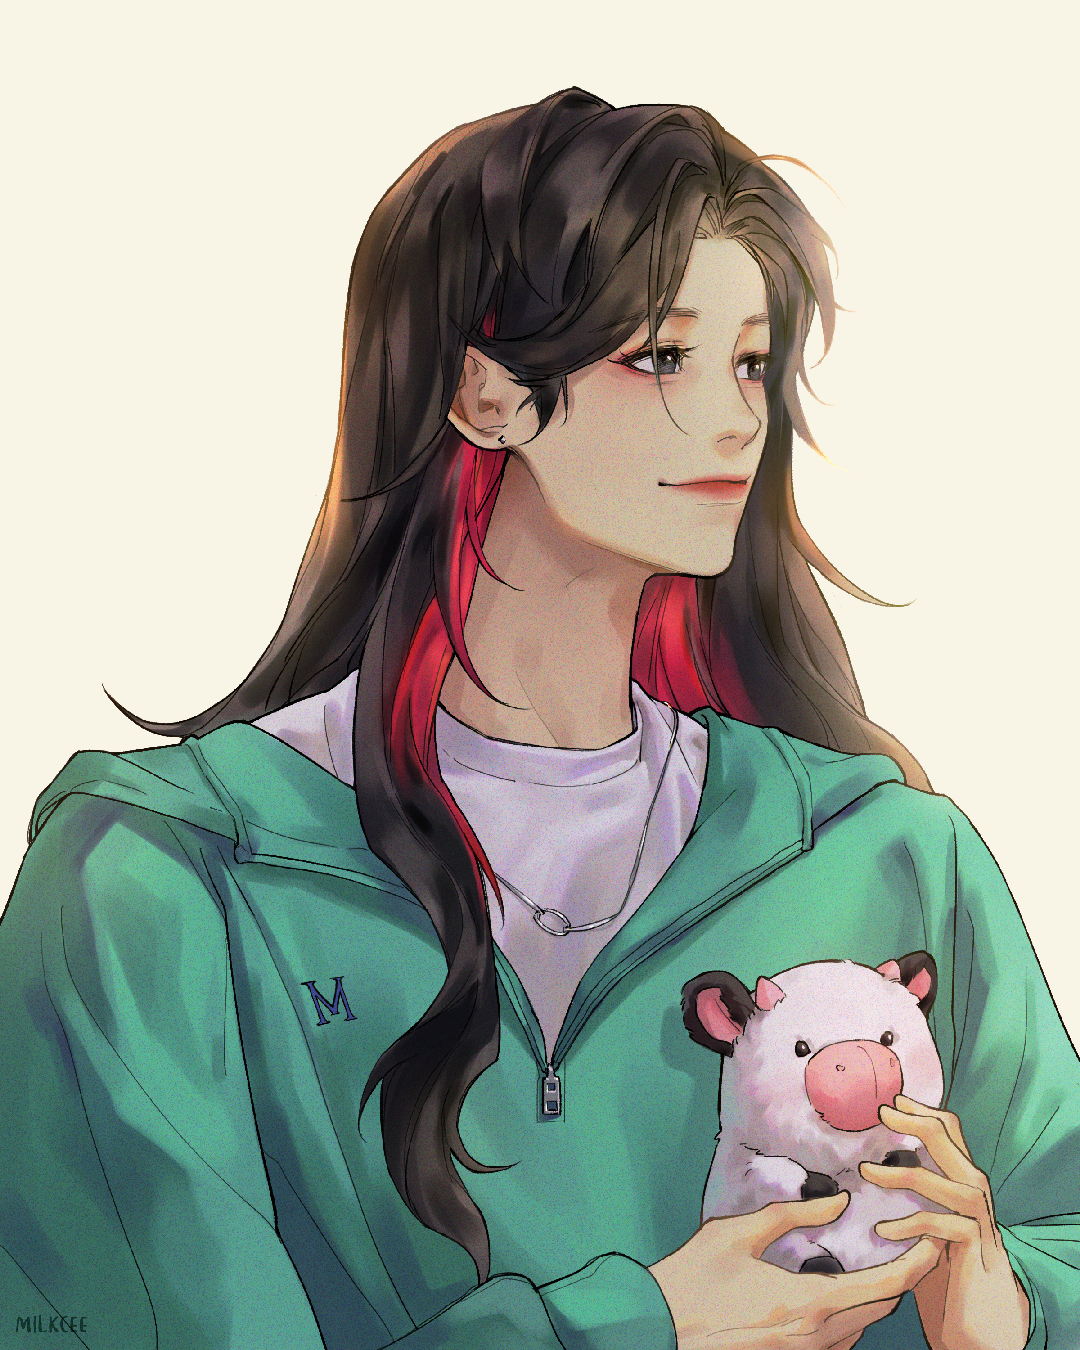
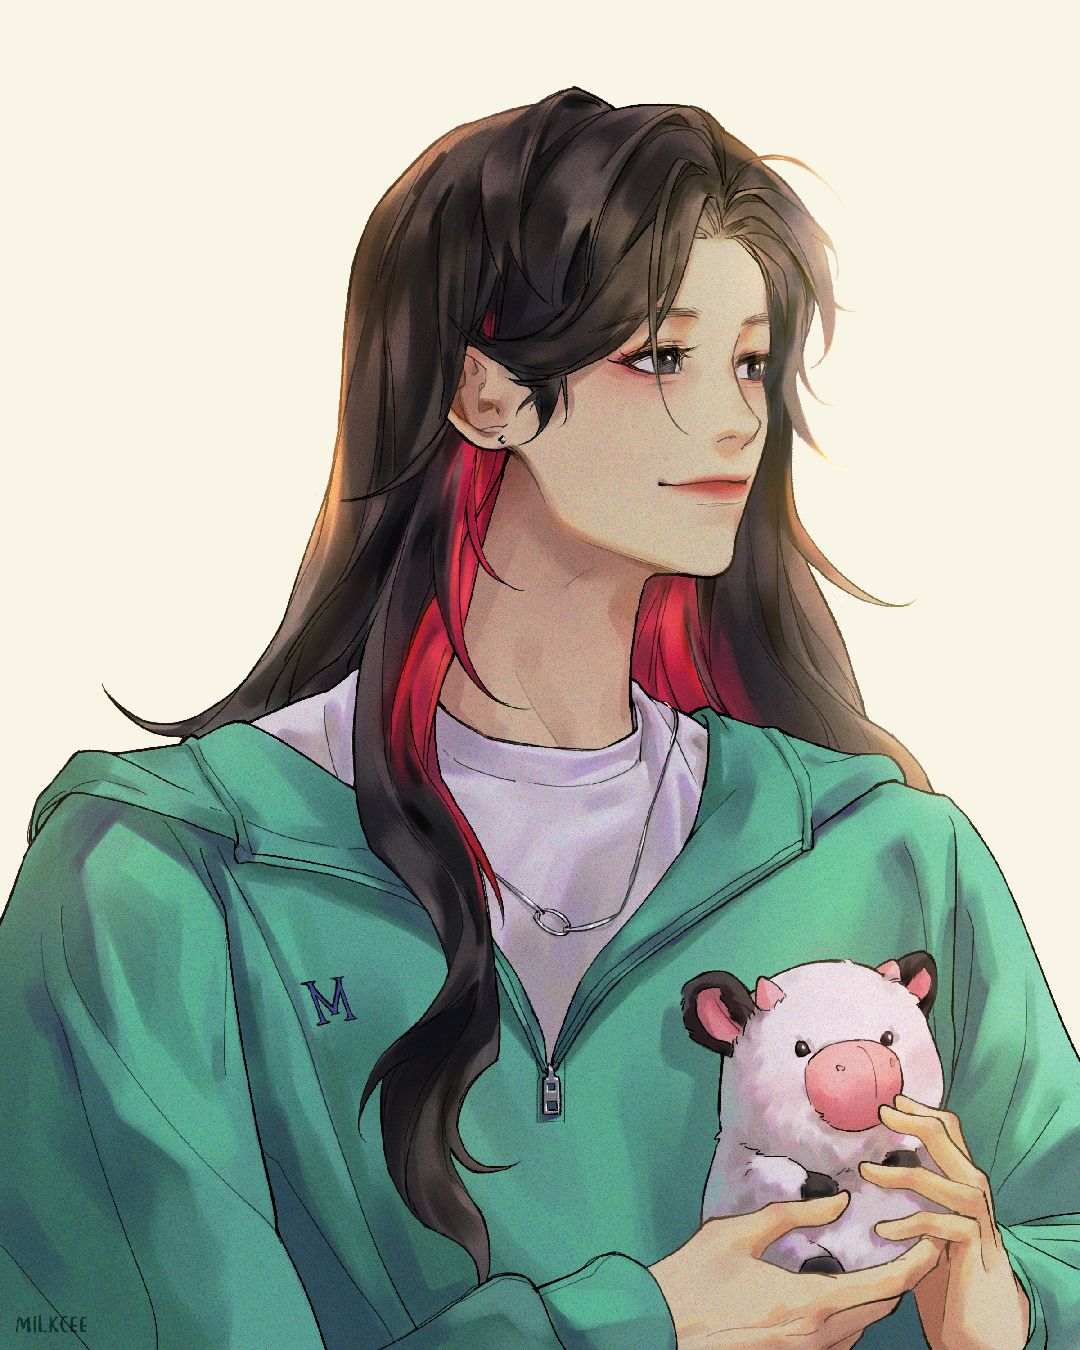
Reduced image asset size using squoosh

diff --git a/src/routes/+page.svelte b/src/routes/+page.svelte
@@ -3,8 +3,8 @@
     import Footer from '../lib/components/Footer.svelte';
     import TimeBlock from '../lib/components/TimeBlock.svelte';
     import ArrowLink from '../lib/components/ArrowLink.svelte';
-    import heroFigure from '../lib/img/hero-figure.png';
-    import heroSig from '../lib/img/hero-signature.png';
+    import heroFigure from '../lib/img/hero-figure.webp';
+    import heroSig from '../lib/img/hero-signature.webp';
     import aboutProfile from '../lib/img/about-profile-1.jpg';
 
     import { onMount } from 'svelte';
@@ -75,8 +75,8 @@
                     <ArrowLink href="/about" color="art" name="See all" newTab={false} />
                 </div>
                 <div class="mc-c-about__blurb__desc">
-                    <p>Hi, my name is Michaela. I also go by Milkcee on my art accounts.</p>
-                    <p>I’m a student at University of Southern California majoring in Computer Science and minoring in 3-D Animation. [Insert more good first impression things.]</p>
+                    <p>Hi there! I'm Michaela or Milkcee, depending on where you found me from.</p>
+                    <p>I'm an artist and a programmer, with a small fixation on cute cows. I’m a student at University of Southern California majoring in Computer Science and minoring in 3-D Animation. [Insert more good first impression things.]</p>
                 </div>
                 <div class="mc-c-about__blurb__social-links">
                     <ArrowLink href="https://github.com/milkcee12" color="tech" name="Github" arrowColor="white" newTab={true} />
@@ -118,7 +118,7 @@
                 @extend .mc-c-hero__img;
                 height: 110vh;
                 top: -10vh;
-                left: calc(50% - 60vh);
+                left: calc(50% - 59vh);
                 @media (max-width: $breakpoint-md) and (orientation: portrait) {
                     height: 80vh;
                     left: calc(50% - 45vh);

diff --git a/.svelte-kit/ambient.d.ts b/.svelte-kit/ambient.d.ts
@@ -115,7 +115,9 @@ declare module '$env/static/private' {
 	export const SESSIONNAME: string;
 	export const SHELL: string;
 	export const SHLVL: string;
+	export const SSH_AGENT_PID: string;
 	export const SSH_ASKPASS: string;
+	export const SSH_AUTH_SOCK: string;
 	export const SYSTEMDRIVE: string;
 	export const SYSTEMROOT: string;
 	export const TEMP: string;
@@ -128,11 +130,15 @@ declare module '$env/static/private' {
 	export const USERDOMAIN_ROAMINGPROFILE: string;
 	export const USERNAME: string;
 	export const USERPROFILE: string;
+	export const VBOX_MSI_INSTALL_PATH: string;
 	export const VSCODE_GIT_ASKPASS_EXTRA_ARGS: string;
 	export const VSCODE_GIT_ASKPASS_MAIN: string;
 	export const VSCODE_GIT_ASKPASS_NODE: string;
 	export const VSCODE_GIT_IPC_HANDLE: string;
 	export const WINDIR: string;
+	export const WSLENV: string;
+	export const WT_PROFILE_ID: string;
+	export const WT_SESSION: string;
 	export const _: string;
 }
 
@@ -255,7 +261,9 @@ declare module '$env/dynamic/private' {
 		SESSIONNAME: string;
 		SHELL: string;
 		SHLVL: string;
+		SSH_AGENT_PID: string;
 		SSH_ASKPASS: string;
+		SSH_AUTH_SOCK: string;
 		SYSTEMDRIVE: string;
 		SYSTEMROOT: string;
 		TEMP: string;
@@ -268,11 +276,15 @@ declare module '$env/dynamic/private' {
 		USERDOMAIN_ROAMINGPROFILE: string;
 		USERNAME: string;
 		USERPROFILE: string;
+		VBOX_MSI_INSTALL_PATH: string;
 		VSCODE_GIT_ASKPASS_EXTRA_ARGS: string;
 		VSCODE_GIT_ASKPASS_MAIN: string;
 		VSCODE_GIT_ASKPASS_NODE: string;
 		VSCODE_GIT_IPC_HANDLE: string;
 		WINDIR: string;
+		WSLENV: string;
+		WT_PROFILE_ID: string;
+		WT_SESSION: string;
 		_: string;
 		[key: string]: string | undefined;
 	}
